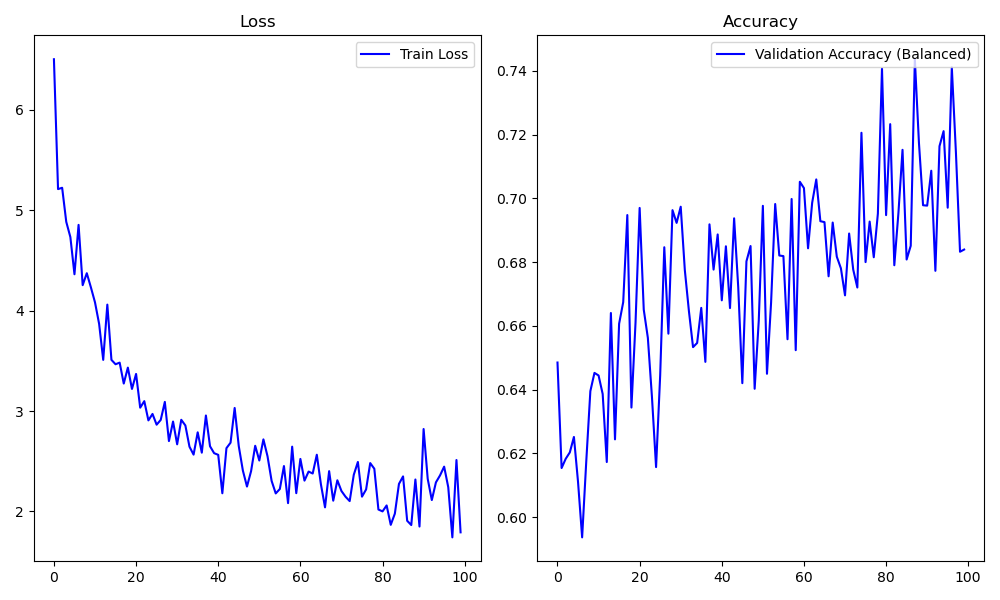
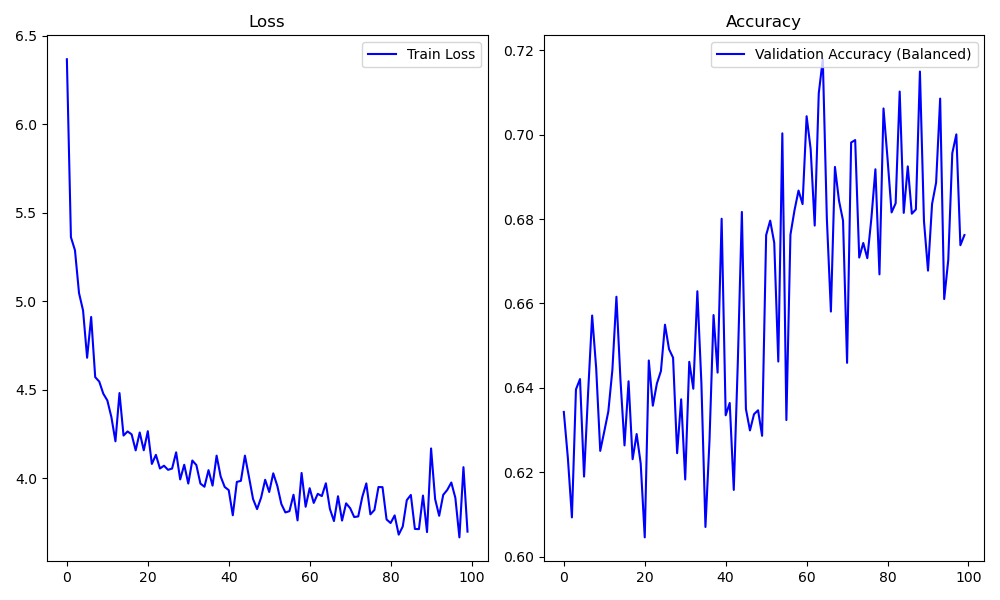
updated plots

diff --git a/generate_final_plots.py b/generate_final_plots.py
@@ -12,12 +12,12 @@ for model in models.keys():
     train_history_filename = join(figspath, "train_history.pkl")
     accuracies_filename = join(figspath, "svc_accuracies.pkl")
     if isfile(train_history_filename):
-        val_accuracies[model] = pd.read_pickle(train_history_filename)["val_accuracy"]
+        val_accuracies[model] = pd.read_pickle(train_history_filename)["val_accuracy"].rolling(3, min_periods=1).mean()
     if isfile(accuracies_filename):
         test_accuracies[model] = pd.read_pickle(accuracies_filename)["accuracy"]
 
-val_plot = val_accuracies.plot(title="Validation accuracy (Seen data)", xlabel="Steps", ylabel="Accuracy [%]").get_figure()
+val_plot = val_accuracies.plot(title="Validation accuracy (SVC on small validation dataset)", xlabel="Steps", ylabel="Accuracy").get_figure()
 val_plot.savefig("figs/val_acc_all.png")
 
-test_plot = test_accuracies.plot(x="Dataset size", title="Test accuracy (SVC on unseen data)", xlabel="Training data used [%]", ylabel="Accuracy [%]").get_figure()
+test_plot = test_accuracies.plot(x="Dataset size", title="Test accuracy (SVC on unseen data)", xlabel="Training data used [%]", ylabel="Accuracy").get_figure()
 test_plot.savefig("figs/test_acc_all.png")
